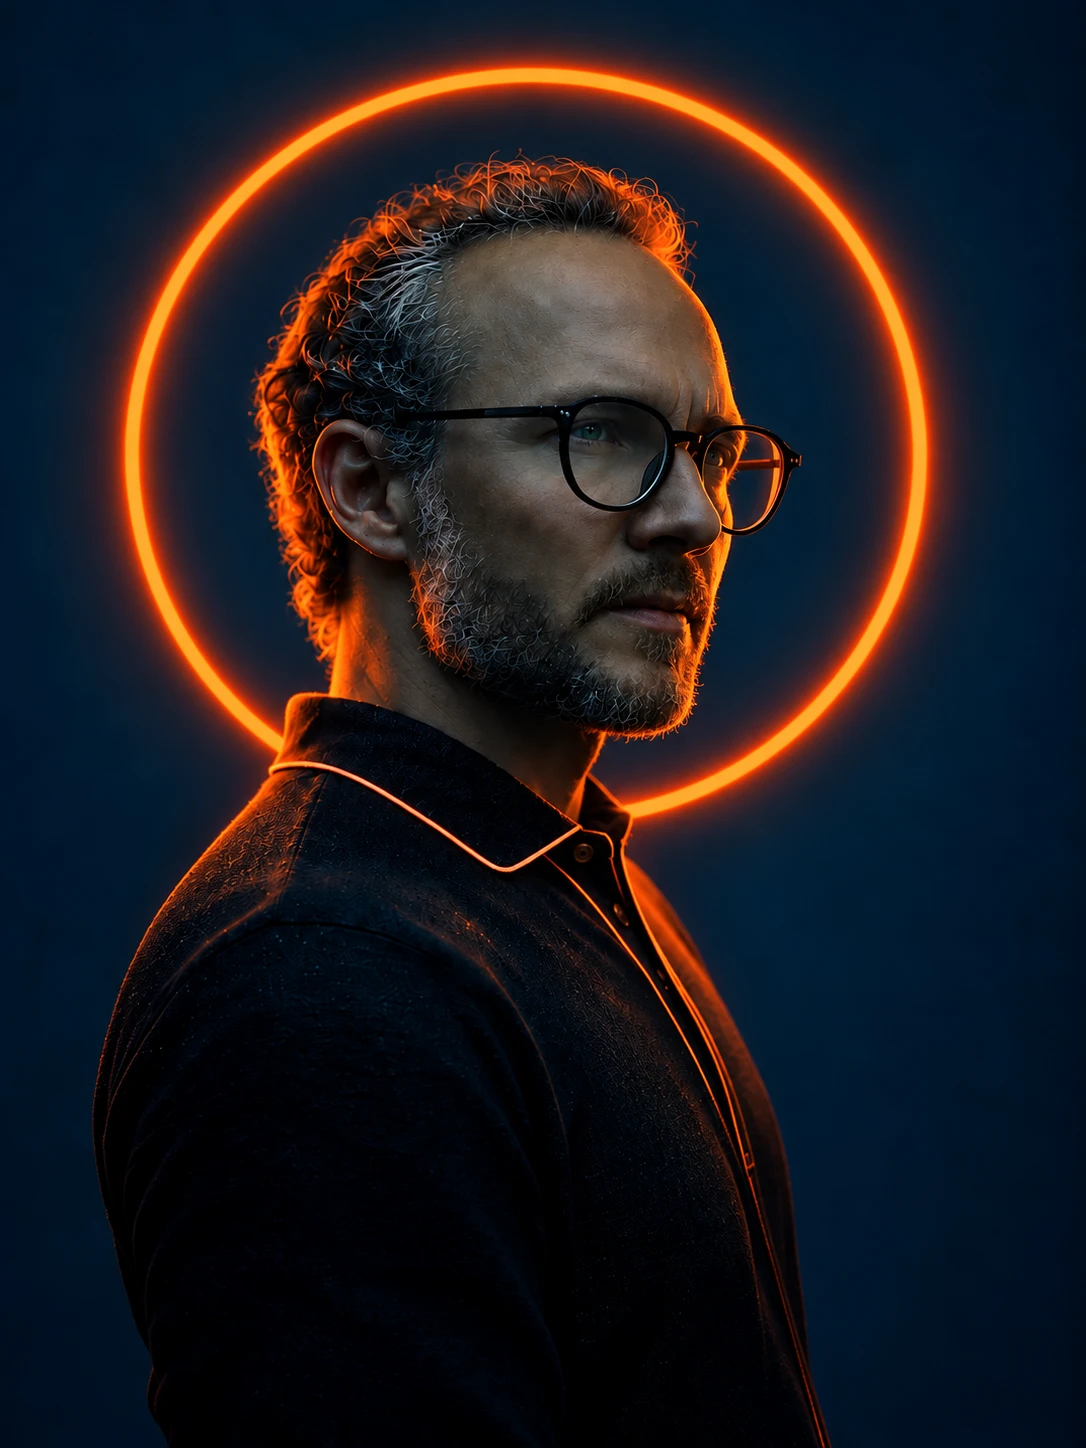
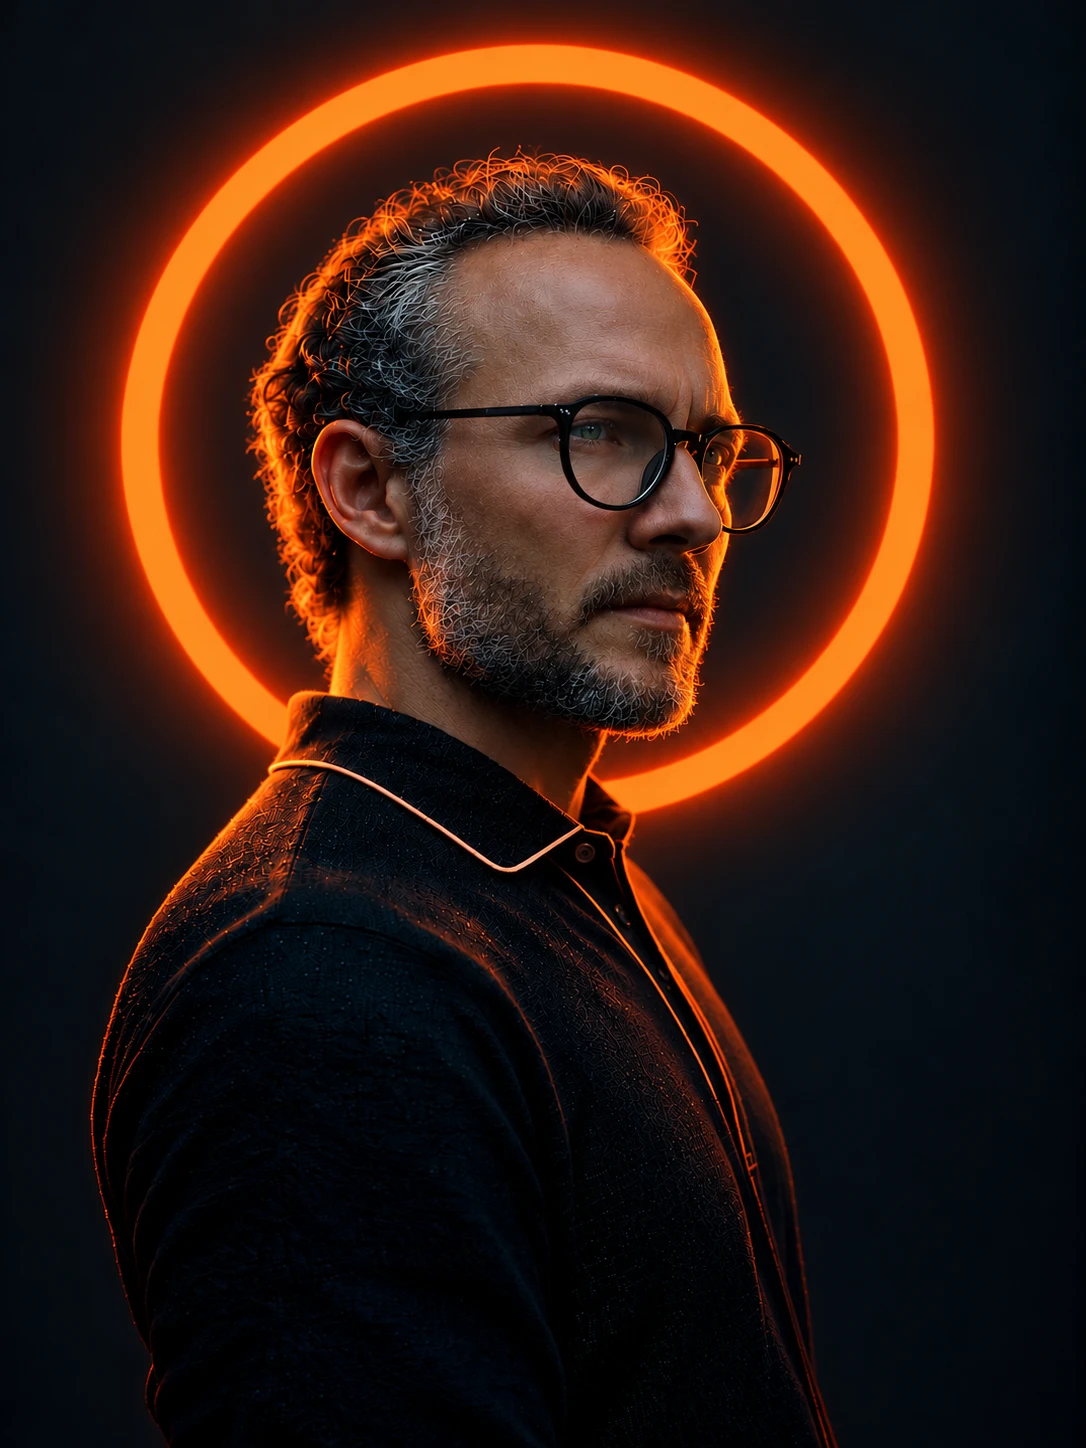
Update founder portraits, add Julia

diff --git a/index.html b/index.html
@@ -413,7 +413,7 @@ footer{border-top:1px solid var(--line);padding-block:26px;font-family:var(--mon
       </div>
       <div class="leader">
         <p class="eyebrow">Leadership</p>
-        <div class="lhead"><figure><div class="mono" aria-hidden="true">JGJ</div></figure><h3>Julia Grace Jacobson</h3></div>
+        <div class="lhead"><figure><img src="media/julia.webp" alt="Portrait of Julia Grace Jacobson"></figure><h3>Julia Grace Jacobson</h3></div>
         <p class="roles">Fashion designer · Entrepreneur · Producer · 10+ years</p>
         <ul>
           <li>International fashion experience across Miami, New York, Dubai, Paris and Milan.</li>
